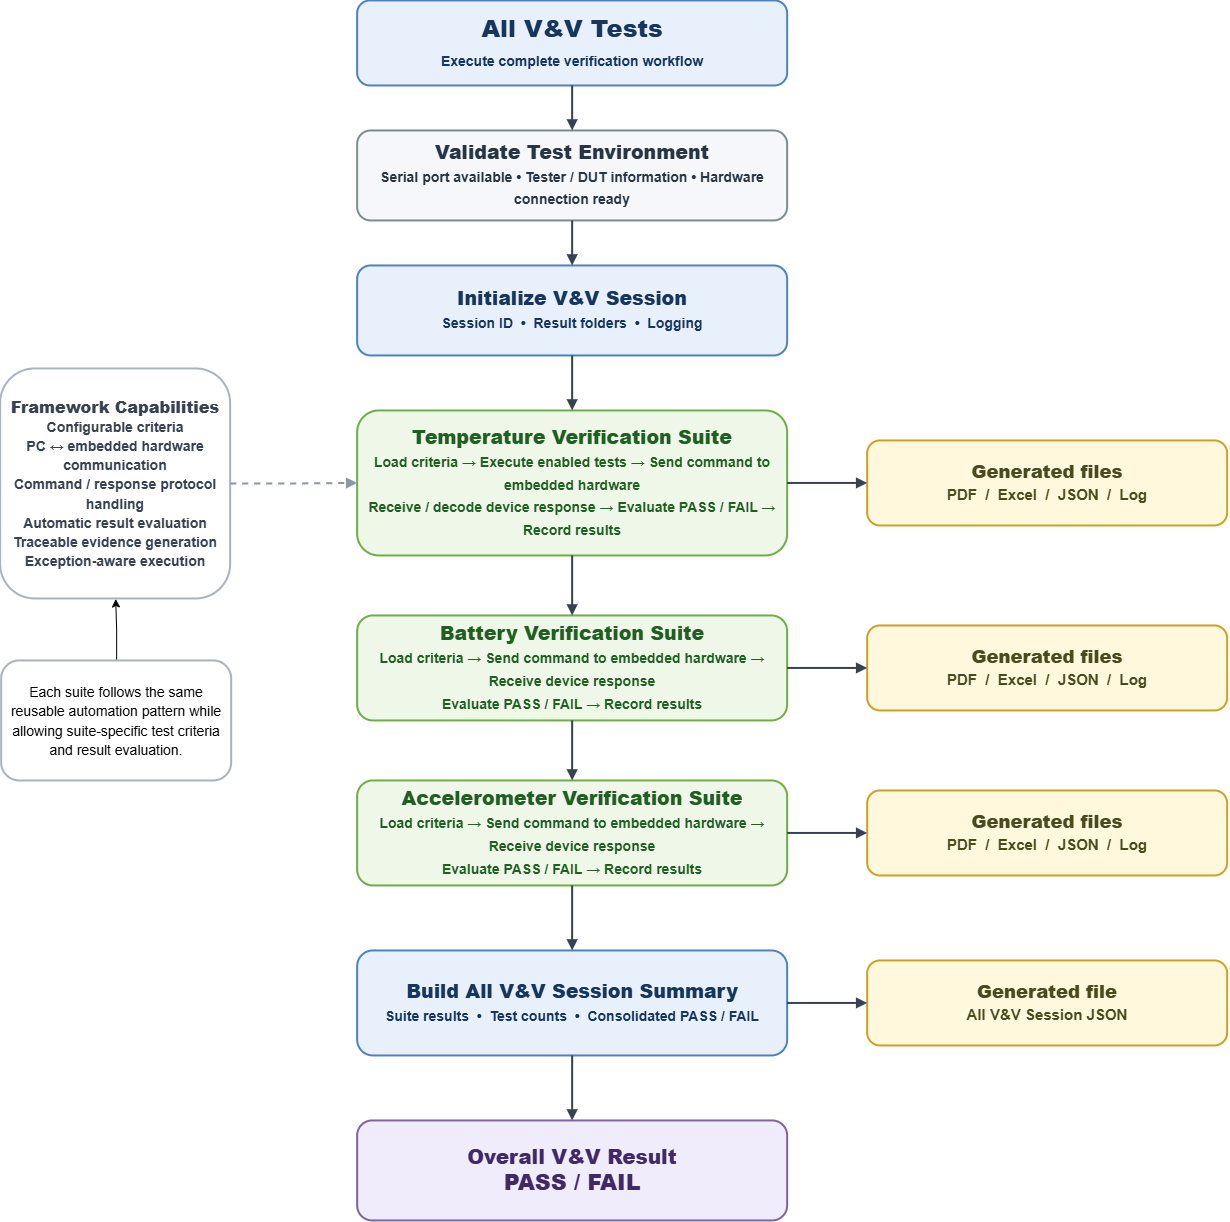
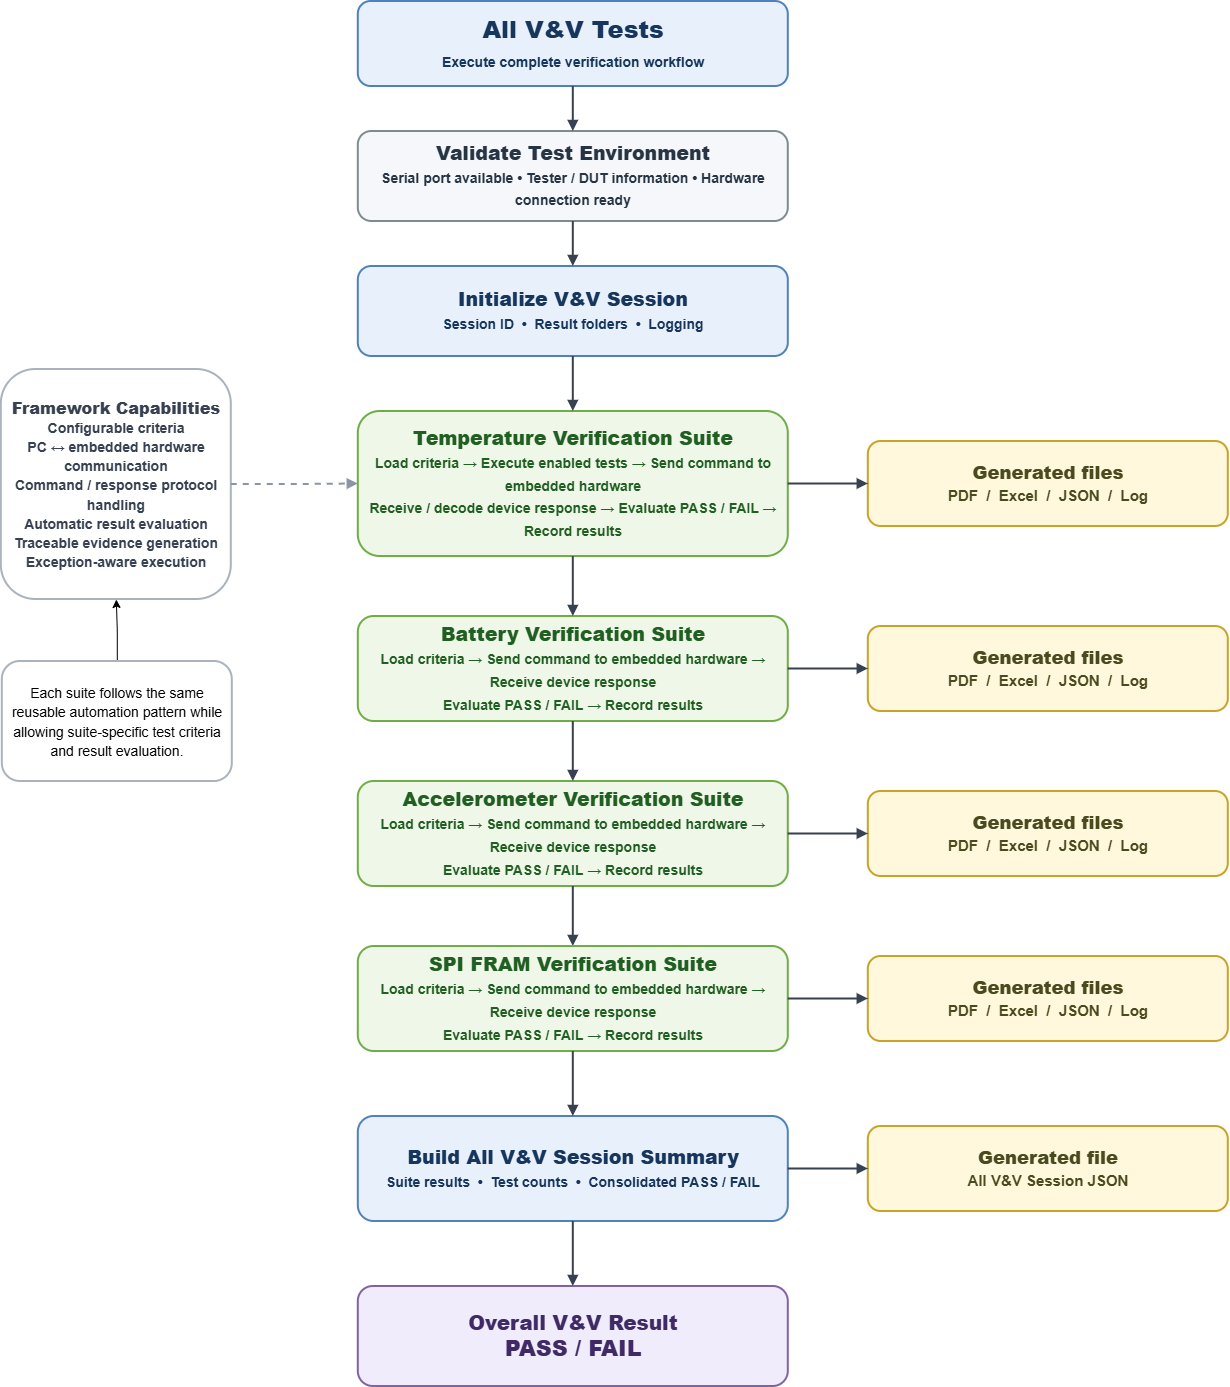
Adding SPI tests, cont.

Changed region(s): [[0.278, 0.0, 1.0, 1.0], [0.0, 0.2799, 0.1854, 0.6219]]

diff --git a/VVAutomation/SampleReports.html b/VVAutomation/SampleReports.html
@@ -784,6 +784,11 @@
                         Accelerometer Log
                     </a>
 
+                    <a class="report-button"
+                    href="JsonViewer.html?type=log&file=Session_SPI-2026-09-22_10-05-10.log">
+                        SPI FRAM Log
+                    </a>                    
+
                 </div>
 
             </div>
